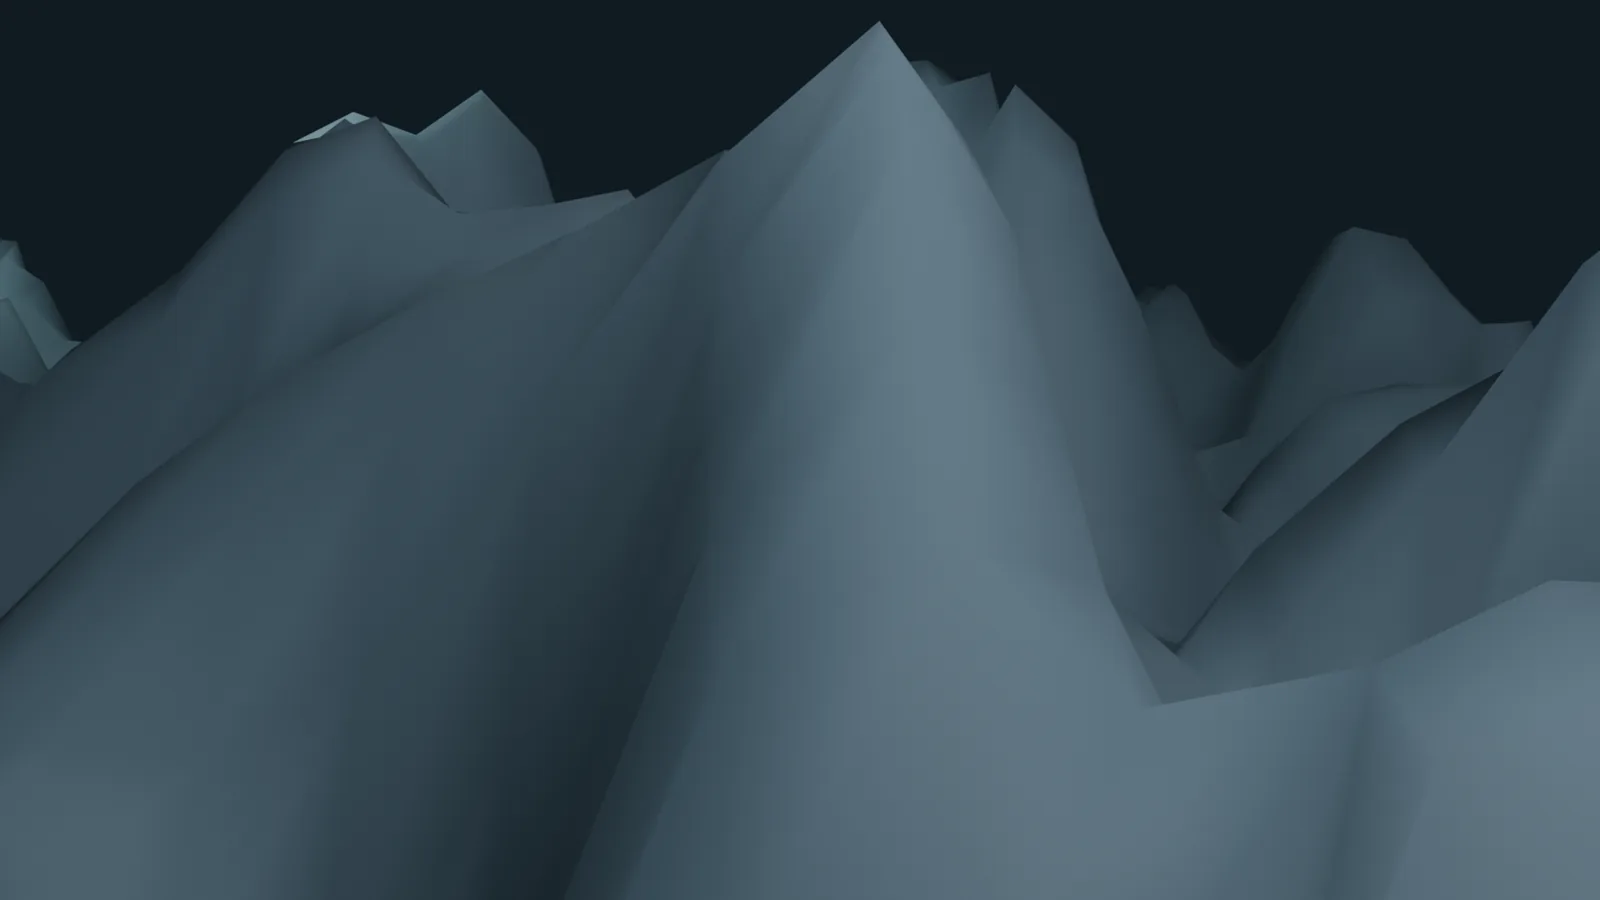
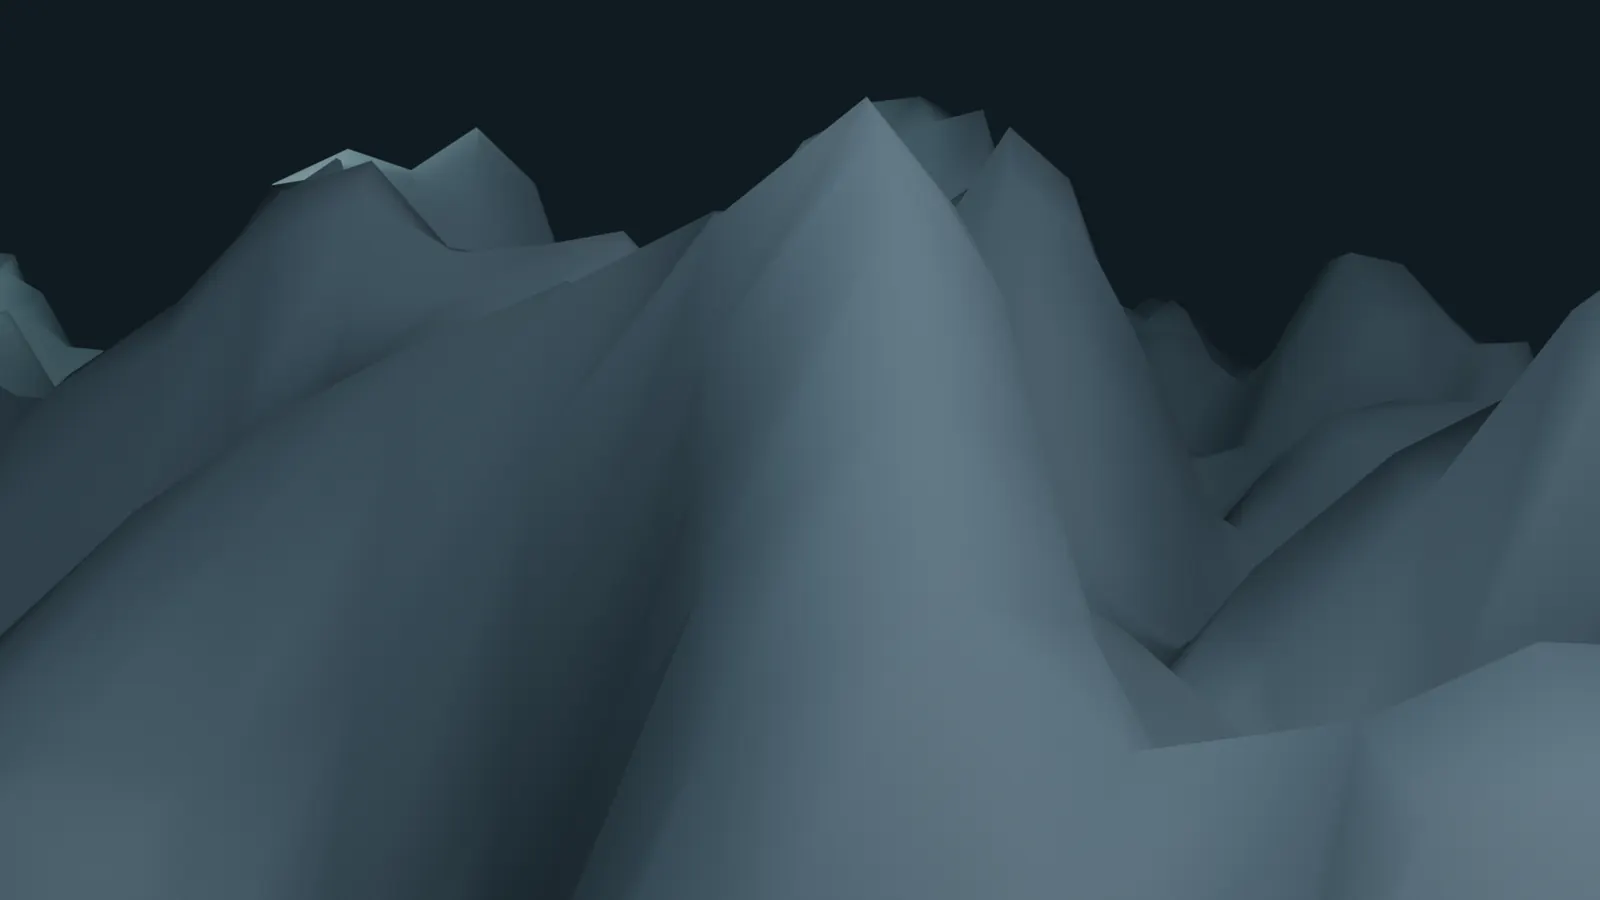
fix(lp): IO motion + refresh Blender EEVEE hero posters
Root cause: view() scroll-timeline vs overflow-x scrollport → no visible
motion. Ship IntersectionObserver .in-view + ken-burns. Refresh fabric→plane
EEVEE stills (bpy.ops.render) into public/landing posters. No t086.

diff --git a/frontend/src/assets/landing.css b/frontend/src/assets/landing.css
@@ -88,20 +88,20 @@
   font-size: 0.85rem;
   font-weight: 600;
   cursor: pointer;
-  transition: transform 180ms var(--lp-ease), opacity 180ms var(--lp-ease), background-color 180ms var(--lp-ease), border-color 180ms var(--lp-ease);
+  transition: transform 120ms var(--lp-ease), opacity 120ms var(--lp-ease), background-color 120ms var(--lp-ease), border-color 120ms var(--lp-ease), filter 120ms var(--lp-ease);
 }
 .dt-lp__btn:active { transform: scale(0.98); }
 .dt-lp__btn--primary {
   background: var(--lp-accent);
   color: #042f2e;
 }
-.dt-lp__btn--primary:hover { filter: brightness(1.06); }
+.dt-lp__btn--primary:hover { filter: brightness(1.06); transform: translateY(-1px); }
 .dt-lp__btn--ghost {
   background: transparent;
   border-color: var(--lp-line);
   color: var(--lp-ink);
 }
-.dt-lp__btn--ghost:hover { background: rgba(255,255,255,0.04); }
+.dt-lp__btn--ghost:hover { background: rgba(255,255,255,0.04); transform: translateY(-1px); }
 .dt-lp__btn--lg { height: 48px; padding: 0 22px; font-size: 0.95rem; }
 
 .dt-lp__lang {
@@ -141,6 +141,7 @@
   object-fit: cover;
   display: block;
   transform: scale(1.02);
+  transform-origin: 50% 40%;
 }
 .dt-lp__hero-media video { opacity: 0; transition: opacity 280ms var(--lp-ease); }
 .dt-lp__hero-media.is-video-ready video { opacity: 1; }
@@ -152,6 +153,16 @@
     linear-gradient(180deg, rgba(7,11,16,0.35) 0%, rgba(7,11,16,0.55) 45%, rgba(7,11,16,0.92) 100%),
     linear-gradient(90deg, rgba(7,11,16,0.55) 0%, rgba(7,11,16,0.15) 50%, rgba(7,11,16,0.4) 100%);
   pointer-events: none;
+}
+/* Subtle atmosphere when video scrub unavailable / idle poster */
+@media (prefers-reduced-motion: no-preference) {
+  .dt-lp__hero-media img {
+    animation: dt-lp-kenburns 28s var(--lp-ease) infinite alternate;
+  }
+  .dt-lp__hero-scrub {
+    background-size: 120% 120%, 100% 100%;
+    animation: dt-lp-scrub-shift 18s ease-in-out infinite alternate;
+  }
 }
 
 .dt-lp__hero-copy {
@@ -381,24 +392,68 @@
   to { opacity: 1; transform: translateY(0); }
 }
 
-/* Scroll-driven reveals (progressive enhancement) */
-@supports (animation-timeline: view()) {
-  .dt-lp__reveal {
-    animation: dt-lp-enter 420ms var(--lp-ease) both;
-    animation-timeline: view();
-    animation-range: entry 8% cover 28%;
-  }
+@keyframes dt-lp-kenburns {
+  from { transform: scale(1.02) translate(0, 0); }
+  to { transform: scale(1.08) translate(-1.2%, -0.8%); }
 }
+
+@keyframes dt-lp-scrub-shift {
+  from { background-position: 0% 0%, center; }
+  to { background-position: 100% 20%, center; }
+}
+
+/*
+ * Reveals: IntersectionObserver + time-based CSS only.
+ * Do NOT use animation-timeline: view() here — `.dt-lp { overflow-x: hidden }`
+ * creates a non-scrolling scrollport; view() timelines jump to 100% at load
+ * (all sections already opacity:1 → looks like “no motion”).
+ */
+.dt-lp__reveal {
+  opacity: 0;
+  transform: translateY(16px);
+  transition: opacity 480ms var(--lp-ease), transform 480ms var(--lp-ease);
+  will-change: opacity, transform;
+}
+.dt-lp__reveal.in-view {
+  opacity: 1;
+  transform: translateY(0);
+}
+.dt-lp__reveal.in-view .dt-lp__tile,
+.dt-lp__reveal.in-view .dt-lp__flow-step,
+.dt-lp__reveal.in-view .dt-lp__shot,
+.dt-lp__reveal.in-view .dt-lp__chip {
+  animation: dt-lp-enter 420ms var(--lp-ease) both;
+}
+.dt-lp__reveal.in-view .dt-lp__tile:nth-child(2),
+.dt-lp__reveal.in-view .dt-lp__flow-step:nth-child(2),
+.dt-lp__reveal.in-view .dt-lp__shot:nth-child(2),
+.dt-lp__reveal.in-view .dt-lp__chip:nth-child(2) { animation-delay: 60ms; }
+.dt-lp__reveal.in-view .dt-lp__tile:nth-child(3),
+.dt-lp__reveal.in-view .dt-lp__flow-step:nth-child(3),
+.dt-lp__reveal.in-view .dt-lp__shot:nth-child(3),
+.dt-lp__reveal.in-view .dt-lp__chip:nth-child(3) { animation-delay: 120ms; }
+.dt-lp__reveal.in-view .dt-lp__tile:nth-child(4),
+.dt-lp__reveal.in-view .dt-lp__flow-step:nth-child(4),
+.dt-lp__reveal.in-view .dt-lp__shot:nth-child(4),
+.dt-lp__reveal.in-view .dt-lp__chip:nth-child(4) { animation-delay: 180ms; }
 
 @media (prefers-reduced-motion: reduce) {
   .dt-lp__hero-copy,
   .dt-lp__reveal,
+  .dt-lp__reveal.in-view,
+  .dt-lp__reveal.in-view .dt-lp__tile,
+  .dt-lp__reveal.in-view .dt-lp__flow-step,
+  .dt-lp__reveal.in-view .dt-lp__shot,
+  .dt-lp__reveal.in-view .dt-lp__chip,
   .dt-lp__btn,
   .dt-lp__shot img,
-  .dt-lp__hero-media video {
+  .dt-lp__hero-media img,
+  .dt-lp__hero-media video,
+  .dt-lp__hero-scrub {
     animation: none !important;
     transition: none !important;
     transform: none !important;
+    opacity: 1 !important;
   }
   .dt-lp__hero-media video { display: none !important; }
 }

diff --git a/frontend/public/status-report.html b/frontend/public/status-report.html
@@ -116,8 +116,8 @@ footer{margin-top:28px;padding-top:14px;border-top:1px solid var(--line);color:v
     <tr><th>Item</th><th>Status</th><th>Detail</th></tr>
     <tr><td>Route</td><td><span class="badge ok">/</span></td><td><span class="mono">LandingPage</span> is root; <span class="mono">/landing</span> → <span class="mono">/</span>; Login opens AuthModal → <span class="mono">/dashboard/ingestion</span></td></tr>
     <tr><td>IA</td><td><span class="badge ok">SHIPPED</span></td><td>Hero → Problem → Product → HITL → Roles/ACL → Proof → Tech → CTA</td></tr>
-    <tr><td>Motion</td><td><span class="badge ok">CSS-first</span></td><td>transform/opacity · scroll-timeline view() · prefers-reduced-motion · poster LCP · CDN scrub video (no autoplay)</td></tr>
-    <tr><td>Hero assets</td><td><span class="badge ok">Blender</span></td><td>Fabric→plane EEVEE stills → <span class="mono">hero.poster.webp</span> · video <span class="mono">t086-cdn.w9.nu/P-086/landing/hero.*</span></td></tr>
+    <tr><td>Motion</td><td><span class="badge ok">IO + CSS</span></td><td>IntersectionObserver <span class="mono">.in-view</span> reveals · ken-burns poster · CTA 120ms hover · <span class="mono">prefers-reduced-motion</span> · no view()-timeline (overflow scrollport bug) · CDN scrub video optional, no autoplay</td></tr>
+    <tr><td>Hero assets</td><td><span class="badge ok">Blender EEVEE</span></td><td>Real <span class="mono">bpy.ops.render</span> fabric→plane → <span class="mono">hero.poster.webp</span> + <span class="mono">atmos.calm.webp</span> · video <span class="mono">t086-cdn.w9.nu/P-086/landing/hero.*</span> (pre-existing)</td></tr>
     <tr><td>Local QA</td><td><span class="badge ok">PASS</span></td><td>Playwright 375/1440 · evidence <span class="mono">.loop-state/qa-business-landing/</span></td></tr>
     <tr><td>d086</td><td><span class="badge ok">FE deploy</span></td><td>No cloudflared · no wipe · backend untouched</td></tr>
     <tr><td>t086</td><td><span class="badge wip">WAIT</span></td><td>User lock 6B — do not deploy until return</td></tr>

diff --git a/frontend/src/pages/LandingPage.tsx b/frontend/src/pages/LandingPage.tsx
@@ -224,6 +224,38 @@ export const LandingPage: React.FC = () => {
     navigate('/dashboard/ingestion', { replace: true });
   }, [isAuthenticated, navigate]);
 
+  // Time-based reveal fallback (Firefox / no scroll-timeline / @supports miss).
+  useEffect(() => {
+    const root = document.querySelector('.dt-lp');
+    if (!root) return;
+    const nodes = Array.from(root.querySelectorAll<HTMLElement>('.dt-lp__reveal'));
+    if (!nodes.length) return;
+
+    const reduced = window.matchMedia('(prefers-reduced-motion: reduce)').matches;
+    if (reduced) {
+      nodes.forEach((el) => el.classList.add('in-view'));
+      return;
+    }
+
+    if (typeof IntersectionObserver === 'undefined') {
+      nodes.forEach((el) => el.classList.add('in-view'));
+      return;
+    }
+
+    const io = new IntersectionObserver(
+      (entries) => {
+        for (const entry of entries) {
+          if (!entry.isIntersecting) continue;
+          entry.target.classList.add('in-view');
+          io.unobserve(entry.target);
+        }
+      },
+      { root: null, rootMargin: '0px 0px -8% 0px', threshold: 0.12 },
+    );
+    nodes.forEach((el) => io.observe(el));
+    return () => io.disconnect();
+  }, [lang]);
+
   const scrollTo = (id: string) => document.getElementById(id)?.scrollIntoView({ behavior: 'smooth' });
 
   const toggleLang = () => {
